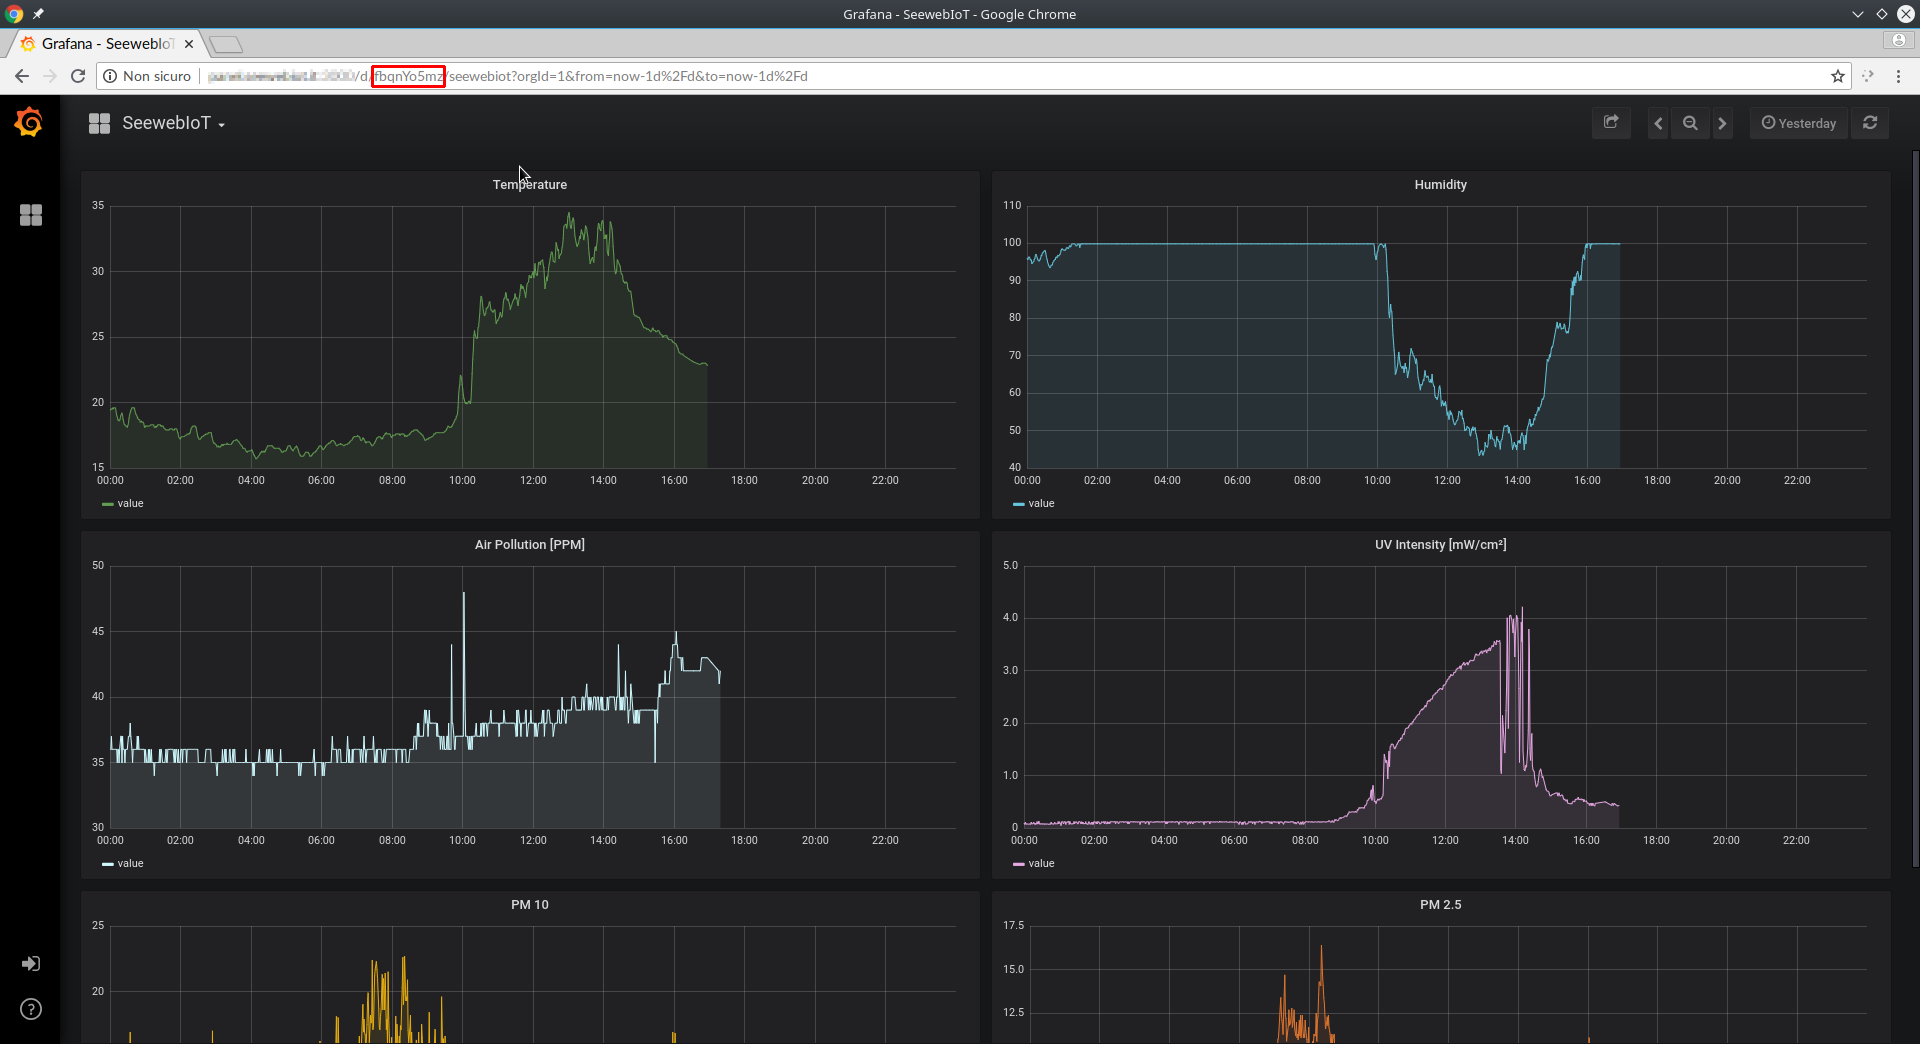
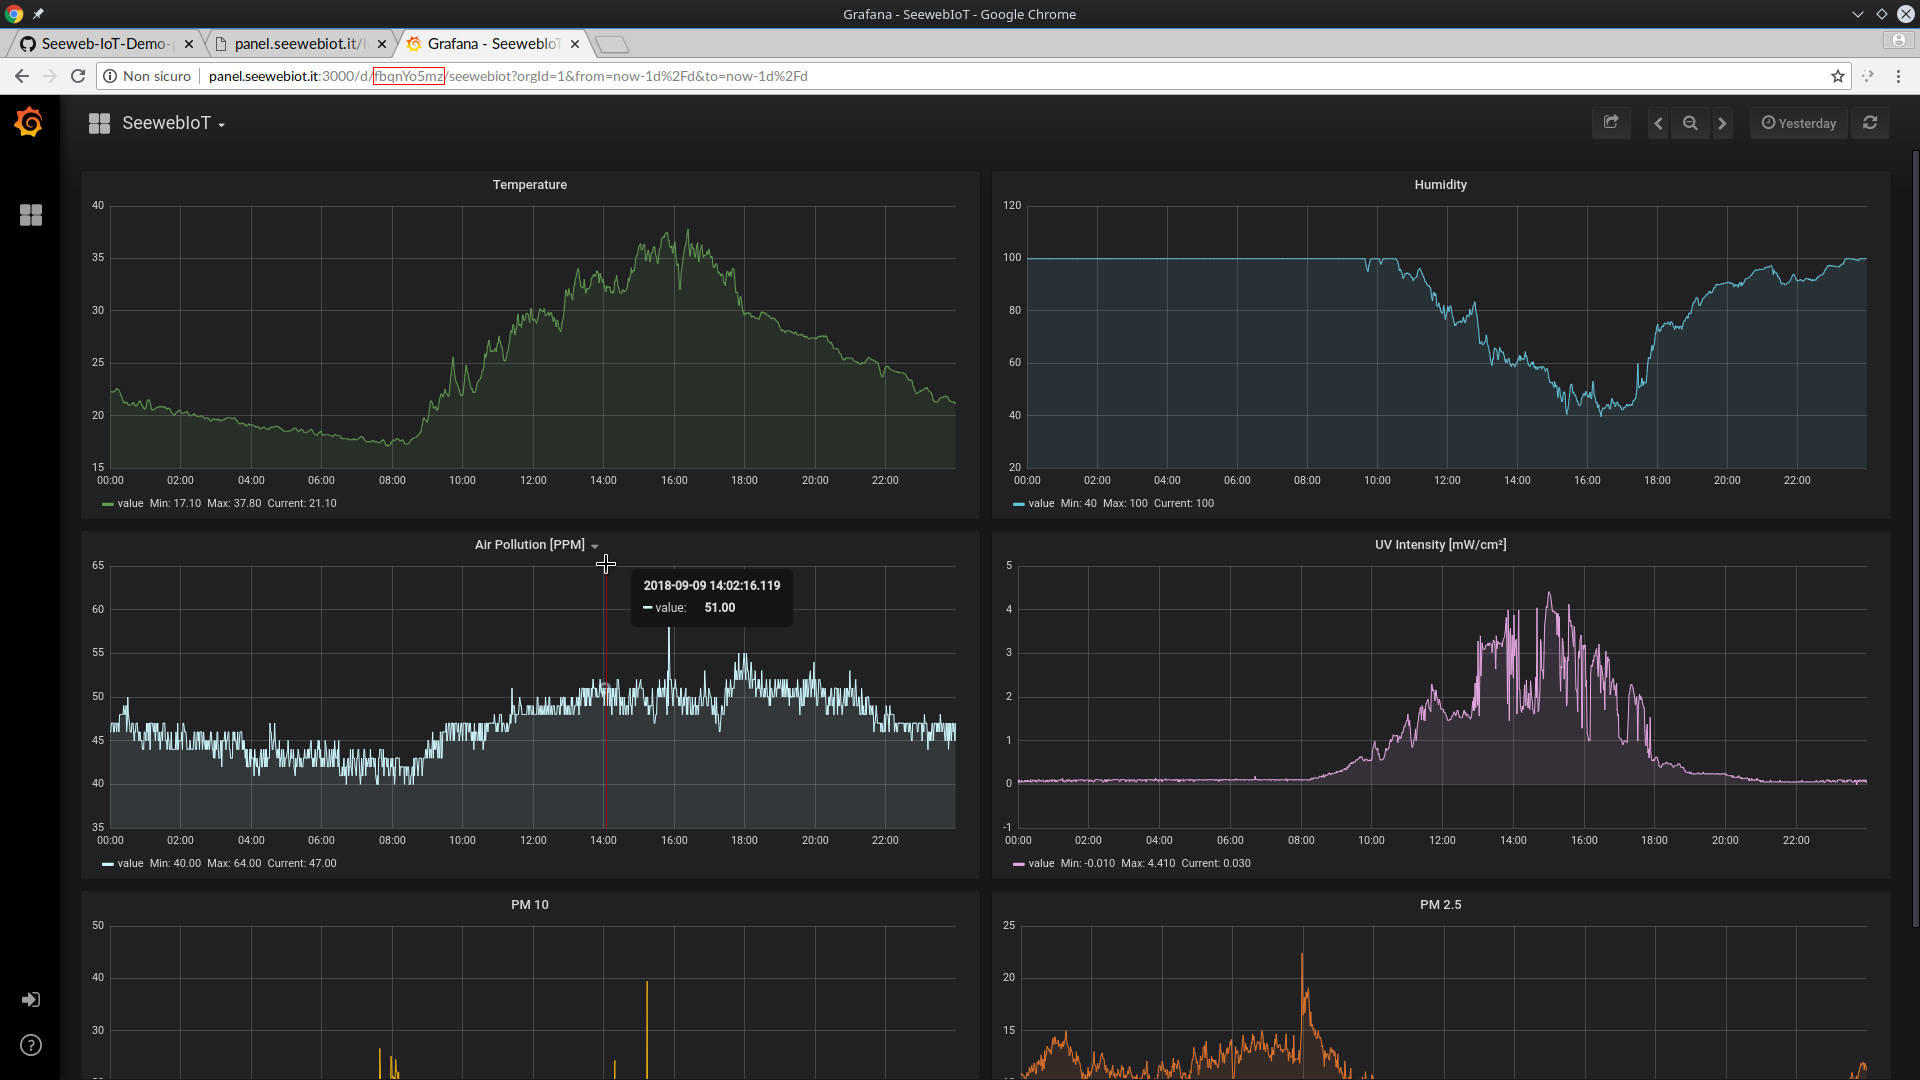
Added more screenshot to guides

diff --git a/docs/SeewebIoTForDummies[en].md b/docs/SeewebIoTForDummies[en].md
@@ -291,10 +291,16 @@ $ make
 
 ## Use our example project
 ### Assemble ciruit
-Circuit scheme and Arduino code are available in `/src/arduino_code`. Arduino board will grab data from sensors and will send them to Raspberry Pi in JSON format. Raspberry Pi will read data through serial from both Arduino and SDS011 (PM sensor) and save it to `/data/data.json` using python3 script `data_collector.py`.
+Circuit scheme and Arduino code are available in `/src/arduino_code`. Then upload the code to Arduino.
+
+![](SeewebIoTForDummies[en].assets/SeewebIoTForDummies[it]-79f8703c.png)
+
+Arduino board will grab data from sensors and will send them to Raspberry Pi in JSON format. Raspberry Pi will read data through serial from both Arduino and SDS011 (PM sensor) and save it to `/data/data.json` using python3 script `data_collector.py`.
 
 ## Use Grafana to draw charts out of received value
 `Grafana Server` will already be installed on your host. Grafana control panel will be accessible through URL and credentials provided at time of purchase. Astarte datasource plugin will be already configured. It will be possible to create new dashboard and panels. To add a new panel you have to select chart type, choose datasource and set query parameters (Device ID, interface name, data path).
+
+![](SeewebIoTForDummies[it].assets/SeewebIoTForDummies[en]-ff6da115.png)
 
 ## PHP callback page example
 
